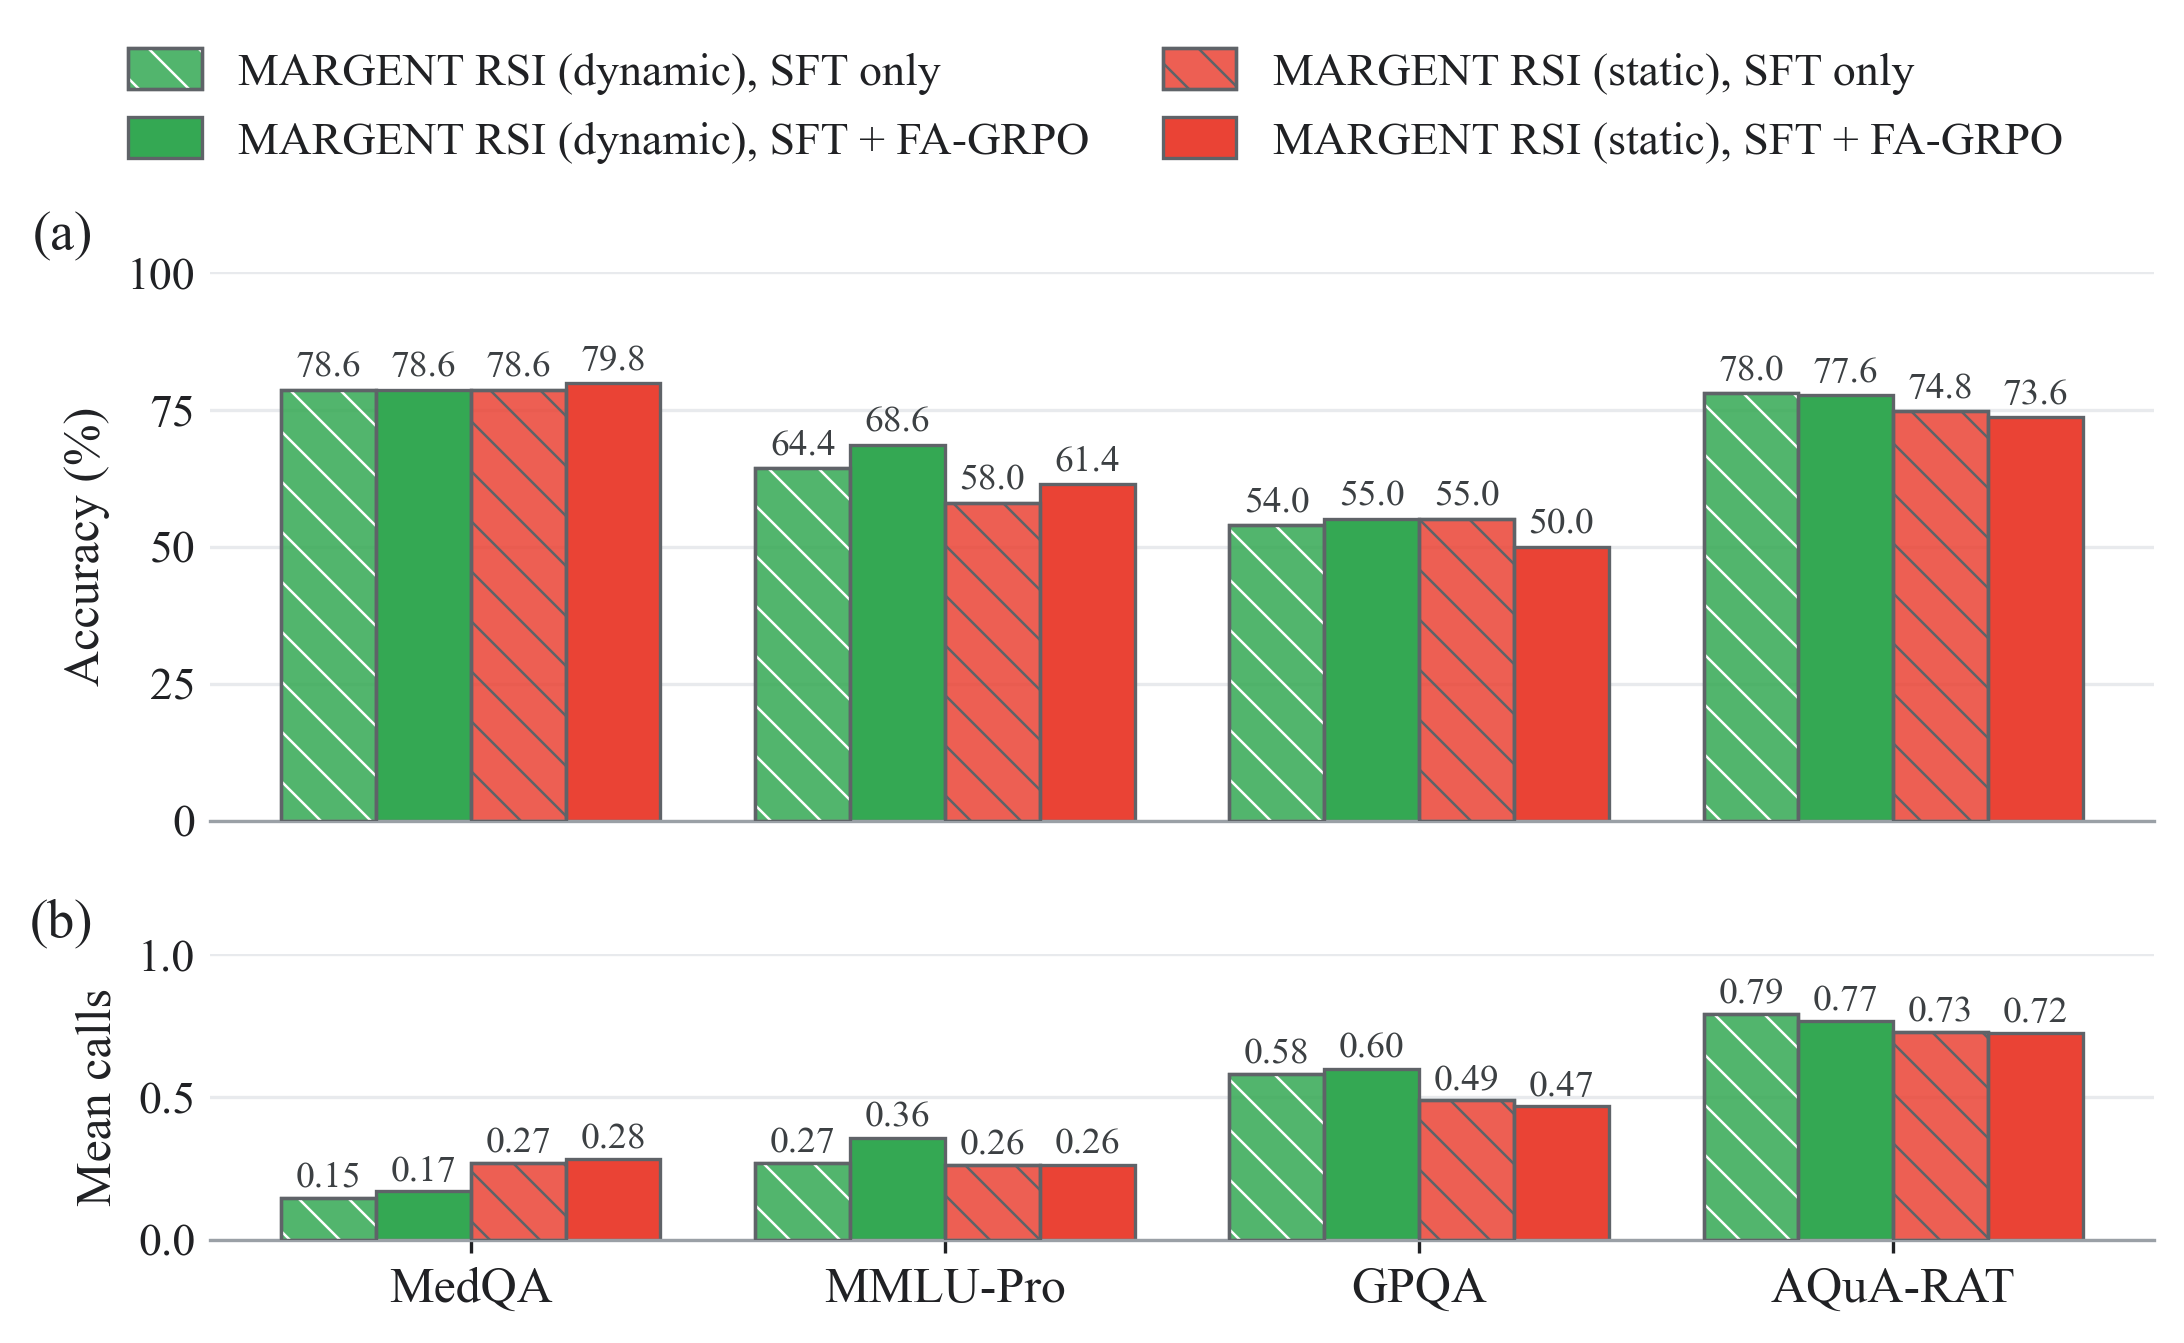
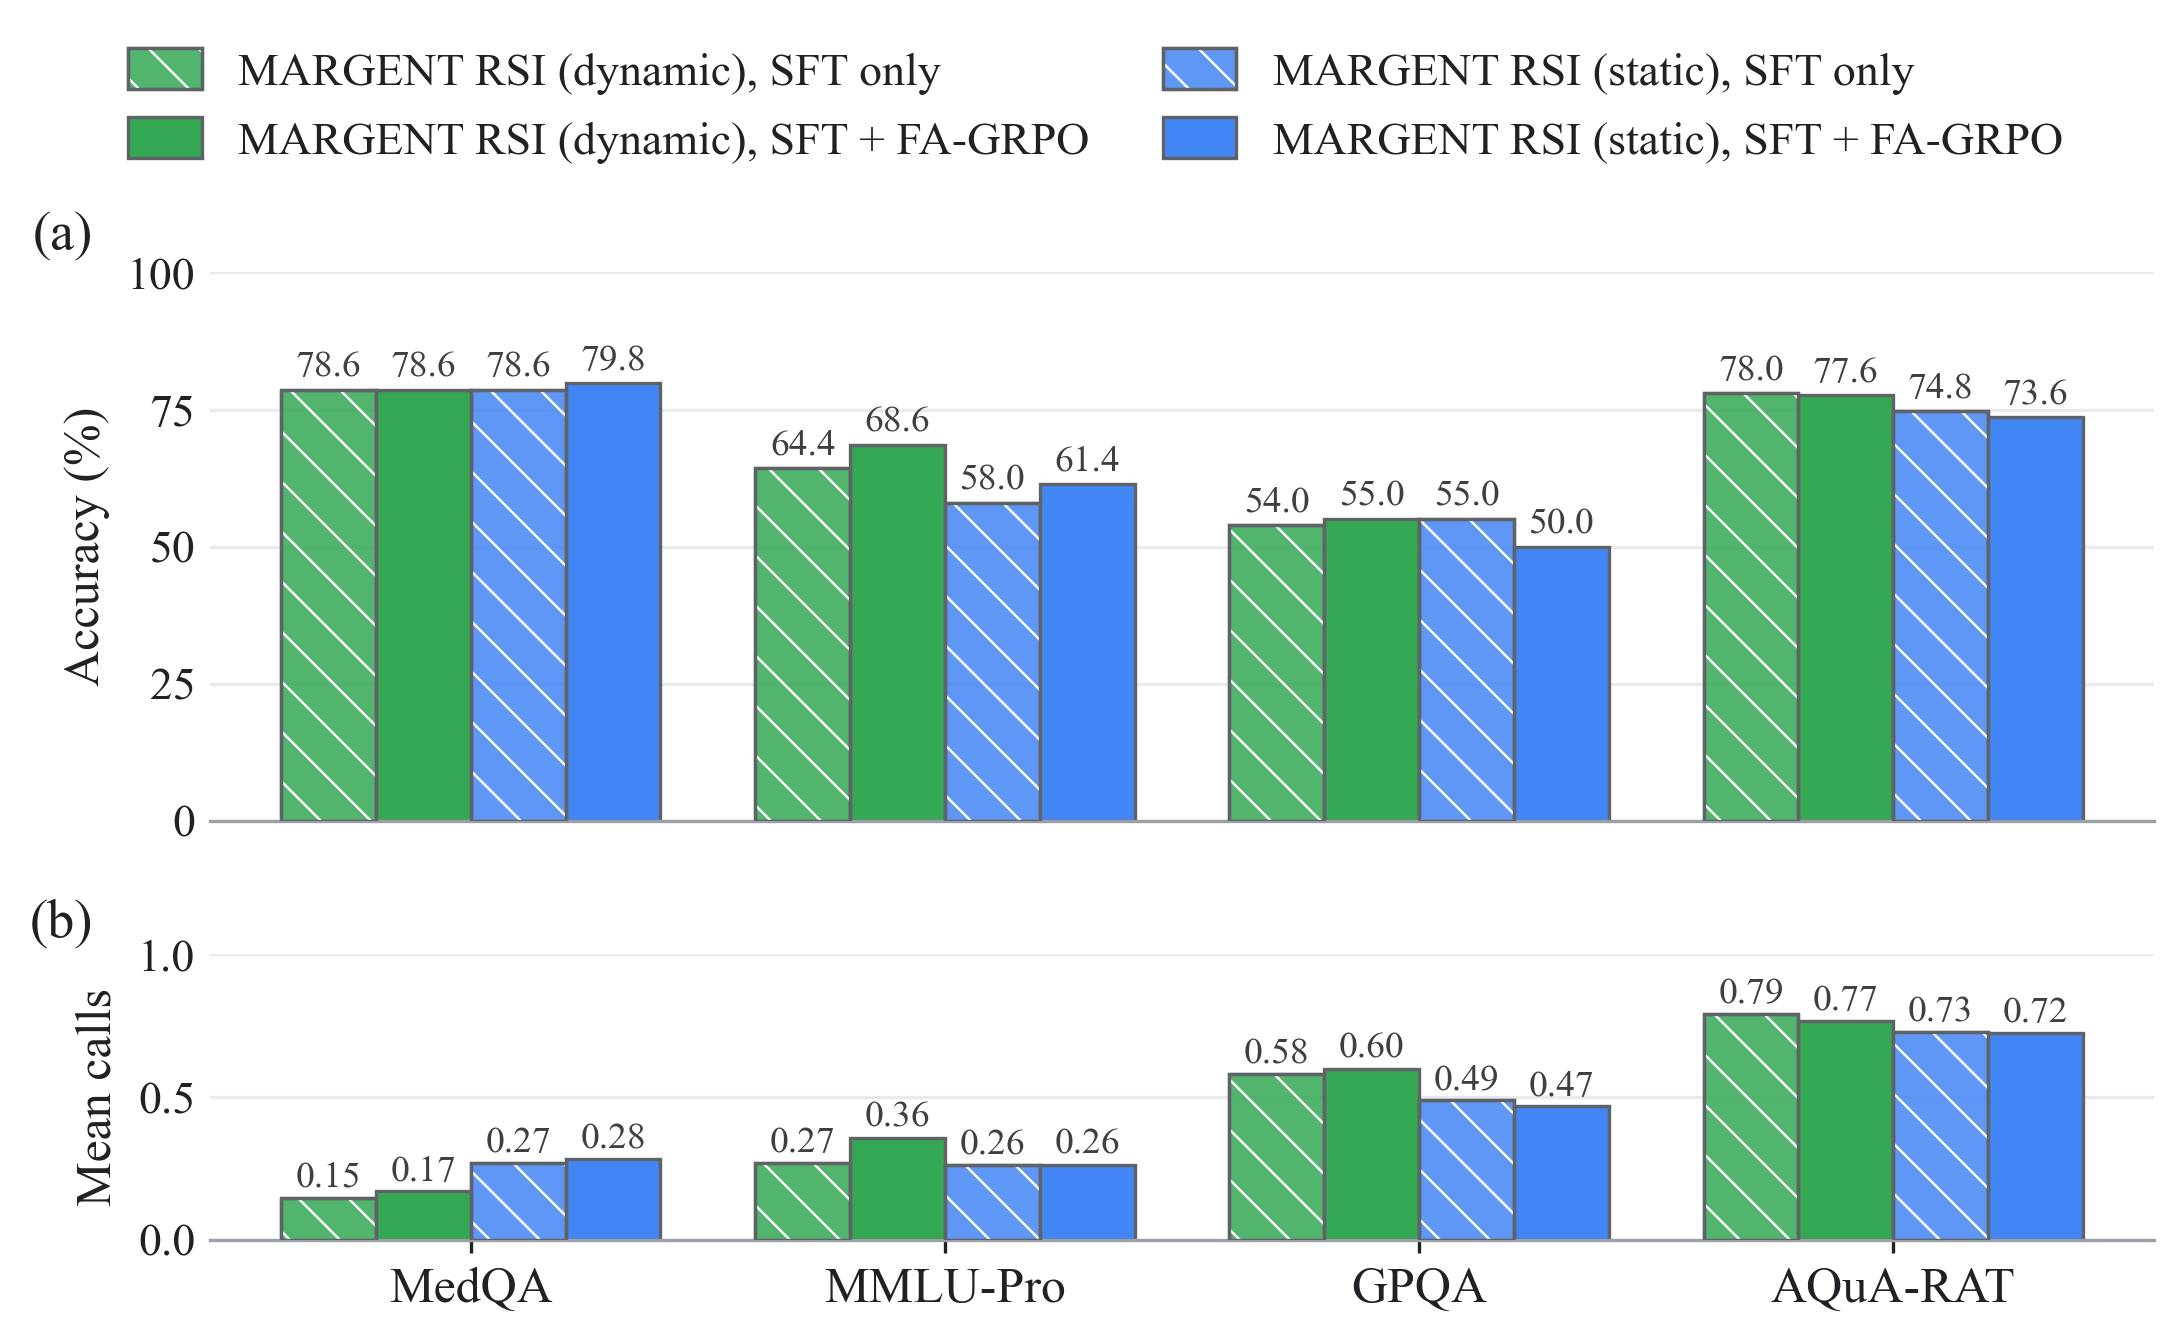
MCQ RSI paper assets: Google-palette GRPO figure uses blue for the static arm instead of red

diff --git a/agent_routing/docs/mcq_rsi_results/paper_assets/scripts/fig_grpo_ablation.py b/agent_routing/docs/mcq_rsi_results/paper_assets/scripts/fig_grpo_ablation.py
@@ -29,8 +29,14 @@ ALPHA = style.NO_GRPO["alpha"]
 HATCH_COLOR = {"dynamic": "white", "static": style.C["edge"]}
 
 
+# Google palette: the static arm is drawn in Google blue next to the green dynamic arm (red beside green clashed)
+FACE = {"static": style.C["blue"]} if style.PALETTE == "google" else {}
+if style.PALETTE == "google":
+    HATCH_COLOR = {"dynamic": "white", "static": "white"}
+
+
 def face(pol, grpo):
-    fc = style.POLICY[pol]["facecolor"]
+    fc = FACE.get(pol, style.POLICY[pol]["facecolor"])
     return fc if grpo else to_rgba(fc, ALPHA)
 
 
